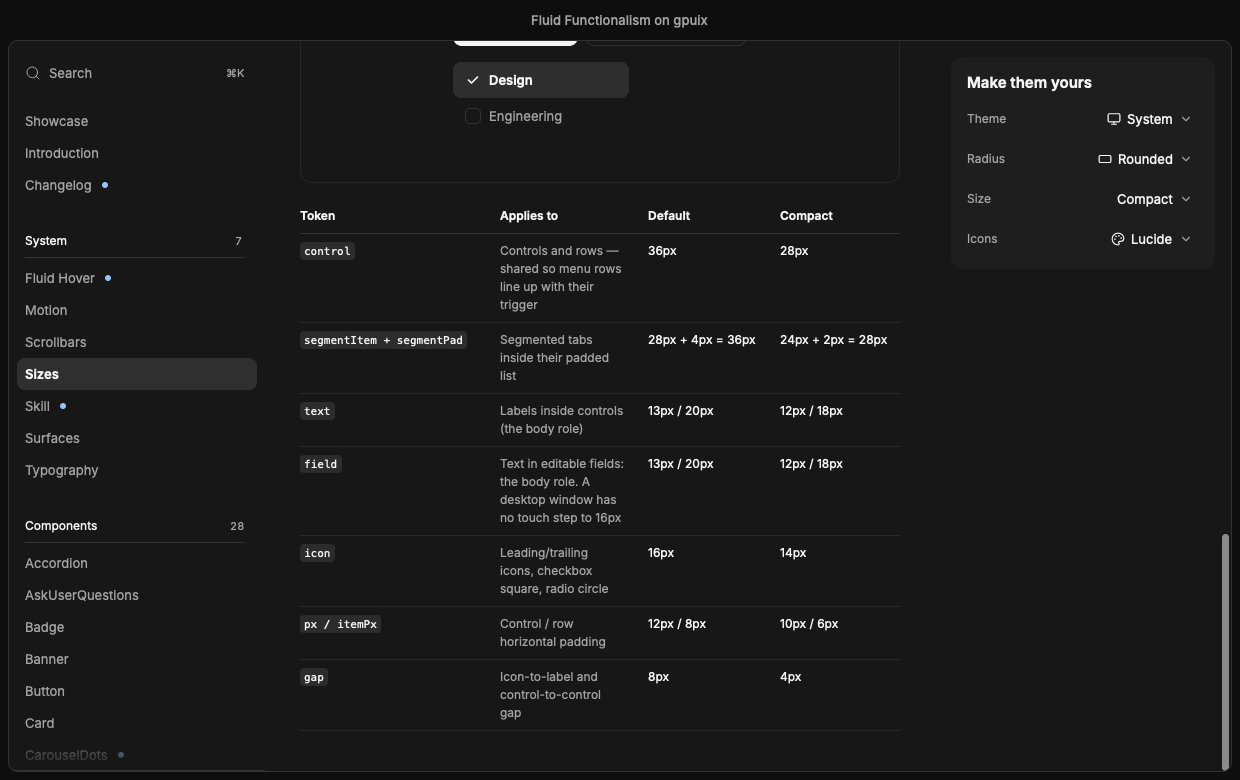
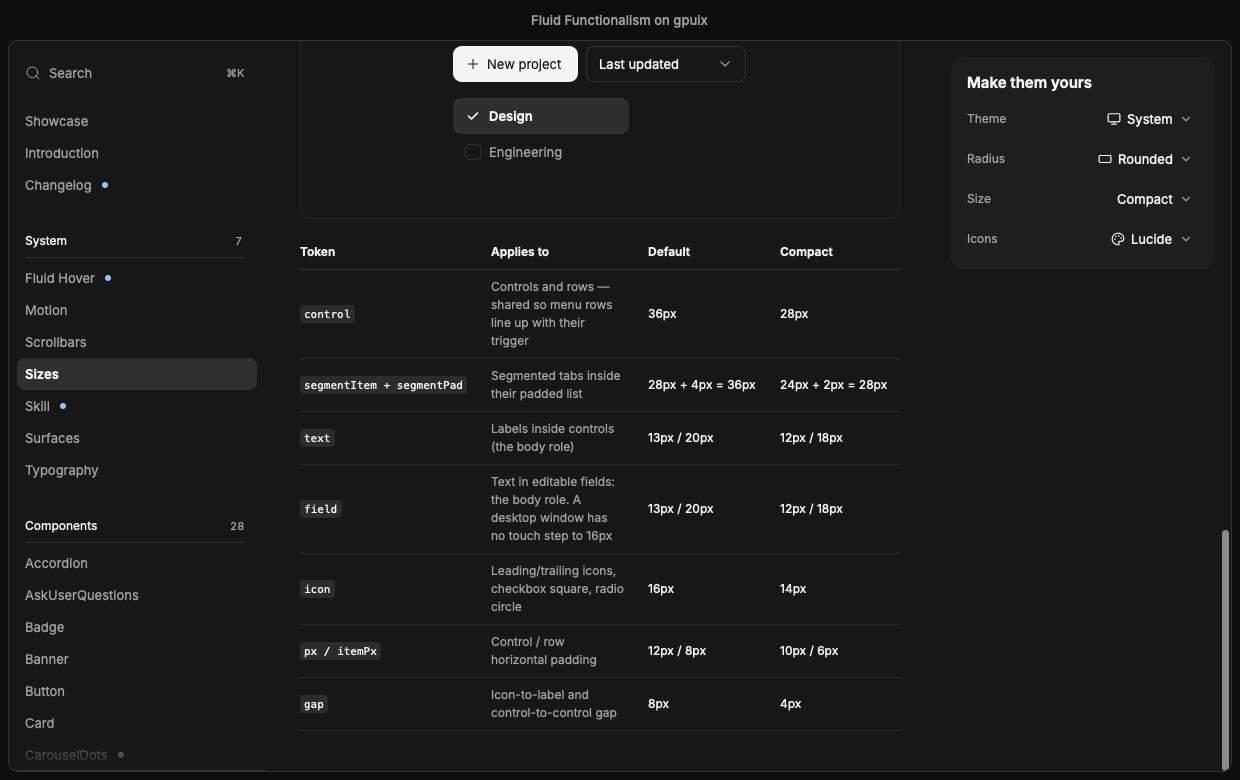
Sizes page: the token reference is a display:table in a horizontal ScrollArea with min-width 560, as the source's; drift entry rewritten

diff --git a/src/pages/sizes/token-table.tsx b/src/pages/sizes/token-table.tsx
@@ -1,4 +1,5 @@
 import { For, type JSX } from 'solid-js';
+import { ScrollArea } from '#/components/scroll-area';
 import { MONO } from '#/lib/doc-page';
 import { color, type SizeChoice, scheme, siteType, weight } from '#/lib/theme';
 import { LADDER } from './ladder';
@@ -54,32 +55,20 @@ const TOKEN_ROWS: readonly TokenRow[] = [
 	},
 ];
 
-/** The columns that do not flex; "Applies to" takes the rest. */
-const WIDTHS = { token: 188, default: 132, compact: 132 } as const;
-
-const CELL = {
-	paddingTop: 8,
-	paddingBottom: 8,
-	paddingLeft: 12,
-	paddingRight: 12,
-};
-
-function Cell(props: {
-	width?: number;
-	first?: boolean;
-	children: JSX.Element;
-}) {
+/** `th` / `td`: `px-3 py-2`, the first column flush left. */
+function Cell(props: { first?: boolean; rule: string; children: JSX.Element }) {
 	return (
 		<div
 			style={{
-				...CELL,
-				...(props.first === true ? { paddingLeft: 0 } : {}),
-				...(props.width === undefined
-					? { flexGrow: 1, flexBasis: 0, minWidth: 0 }
-					: { width: props.width, flexShrink: 0 }),
-				display: 'flex',
-				flexDirection: 'column',
-				alignItems: 'stretch',
+				display: 'table-cell',
+				verticalAlign: 'middle',
+				paddingTop: 8,
+				paddingBottom: 8,
+				paddingLeft: props.first === true ? 0 : 12,
+				paddingRight: 12,
+				borderBottomStyle: 'solid',
+				borderBottomWidth: 1,
+				borderBottomColor: props.rule,
 			}}
 		>
 			{props.children}
@@ -92,6 +81,7 @@ function HeadText(props: { children: string }) {
 		<text
 			style={{
 				...siteType.body,
+				textAlign: 'left',
 				fontWeight: weight.semibold,
 				color: color.foreground,
 			}}
@@ -106,7 +96,7 @@ function TokenChip(props: { children: string }) {
 	return (
 		<div
 			style={{
-				alignSelf: 'flex-start',
+				width: 'fit-content',
 				paddingLeft: 4,
 				paddingRight: 4,
 				paddingTop: 2,
@@ -131,76 +121,66 @@ function TokenChip(props: { children: string }) {
 
 export function TokenTable() {
 	return (
-		<div
-			testId="token-table"
-			style={{ display: 'flex', flexDirection: 'column', width: '100%' }}
-		>
+		<ScrollArea orientation="horizontal" fade width="100%">
 			<div
+				testId="token-table"
 				style={{
-					display: 'flex',
-					flexDirection: 'row',
-					borderBottomStyle: 'solid',
-					borderBottomWidth: 1,
-					borderColor: color.border,
+					display: 'table',
+					borderCollapse: 'collapse',
+					width: '100%',
+					minWidth: 560,
 				}}
 			>
-				<Cell width={WIDTHS.token} first>
-					<HeadText>Token</HeadText>
-				</Cell>
-				<Cell>
-					<HeadText>Applies to</HeadText>
-				</Cell>
-				<Cell width={WIDTHS.default}>
-					<HeadText>Default</HeadText>
-				</Cell>
-				<Cell width={WIDTHS.compact}>
-					<HeadText>Compact</HeadText>
-				</Cell>
-			</div>
-			<For each={TOKEN_ROWS}>
-				{(row) => (
-					<div
-						style={{
-							display: 'flex',
-							flexDirection: 'row',
-							borderBottomStyle: 'solid',
-							borderBottomWidth: 1,
-							borderColor: color.borderFaint,
-						}}
-					>
-						<Cell width={WIDTHS.token} first>
-							<TokenChip>{row.token}</TokenChip>
-						</Cell>
-						<Cell>
-							<text style={{ ...siteType.body, color: color.mutedForeground }}>
-								{row.applies}
-							</text>
-						</Cell>
-						<Cell width={WIDTHS.default}>
-							<text
-								style={{
-									...siteType.body,
-									color: color.foreground,
-									whiteSpace: 'nowrap',
-								}}
-							>
-								{row.value('default')}
-							</text>
-						</Cell>
-						<Cell width={WIDTHS.compact}>
-							<text
-								style={{
-									...siteType.body,
-									color: color.foreground,
-									whiteSpace: 'nowrap',
-								}}
-							>
-								{row.value('compact')}
-							</text>
-						</Cell>
+				<div style={{ display: 'table-header-group' }}>
+					<div style={{ display: 'table-row' }}>
+						<For each={['Token', 'Applies to', 'Default', 'Compact']}>
+							{(label, index) => (
+								<Cell first={index() === 0} rule={color.border}>
+									<HeadText>{label}</HeadText>
+								</Cell>
+							)}
+						</For>
 					</div>
-				)}
-			</For>
-		</div>
+				</div>
+				<div style={{ display: 'table-row-group' }}>
+					<For each={TOKEN_ROWS}>
+						{(row) => (
+							<div style={{ display: 'table-row' }}>
+								<Cell first rule={color.borderFaint}>
+									<TokenChip>{row.token}</TokenChip>
+								</Cell>
+								<Cell rule={color.borderFaint}>
+									<text
+										style={{
+											...siteType.body,
+											textAlign: 'left',
+											color: color.mutedForeground,
+										}}
+									>
+										{row.applies}
+									</text>
+								</Cell>
+								<For each={['default', 'compact'] as const}>
+									{(step) => (
+										<Cell rule={color.borderFaint}>
+											<text
+												style={{
+													...siteType.body,
+													textAlign: 'left',
+													color: color.foreground,
+													whiteSpace: 'nowrap',
+												}}
+											>
+												{row.value(step)}
+											</text>
+										</Cell>
+									)}
+								</For>
+							</div>
+						)}
+					</For>
+				</div>
+			</div>
+		</ScrollArea>
 	);
 }

diff --git a/drift/sizes-page.md b/drift/sizes-page.md
@@ -55,7 +55,7 @@ repeating it.
 
 - **Cause:** `port choice` (the port has no Tailwind classes); `not ported yet` for the touch step.
 - **Original:** a `ScrollArea orientation="horizontal"` around a `min-w-[560px]` table; the control row reads `h-9 · 36px`; the `field` row reads "13px / 20px, 16px on touch" (`app/docs/sizes/page.tsx:45-124`).
-- **Port:** flex rows in the 600px column (`src/pages/sizes/token-table.tsx`) with fixed widths for Token, Default and Compact and the rest for "Applies to", so that column wraps to three or four lines where the source's auto layout gives it more. Values come from `LADDER` (`src/pages/sizes/ladder.ts`), which restates what `Select` `specs`, `TabsSubtle` `sizes`, `Tabs` `sizes`, `InputGroup` `steps` and `ROW` agree on: `36px`, `28px + 4px = 36px`, `13px / 20px`, `16px`, `12px / 8px`, `8px`. The `field` row drops the touch step (a desktop window has no iOS zoom on focus) and says so in its "Applies to" text, so that cell is not the source's. Row rules are `borderFaint` (7.2%) for `border-border/50` (6%).
+- **Port:** the same shape (`src/pages/sizes/token-table.tsx`): a horizontal `ScrollArea` around a `display: table` at `width: 100%`, `min-width: 560`, the columns sized to their content, the first flush left. In the page's 600px column the nowrap Token, Default and Compact cells leave "Applies to" about 135px, so it wraps to three to six lines and the table is 610px wide, scrolling 10px sideways (measured), where the source's column is up to 680px (`app/docs/layout.tsx:3`) and fits it. Values come from `LADDER` (`src/pages/sizes/ladder.ts`), which restates what `Select` `specs`, `TabsSubtle` `sizes`, `Tabs` `sizes`, `InputGroup` `steps` and `ROW` agree on: `36px`, `28px + 4px = 36px`, `13px / 20px`, `16px`, `12px / 8px`, `8px`. The `field` row drops the touch step (a desktop window has no iOS zoom on focus) and says so in its "Applies to" text, so that cell is not the source's. Row rules are `borderFaint` (7.2%) for `border-border/50` (6%).
 - **Fidelity:** approximated.
 
 ## The toolbar rows
